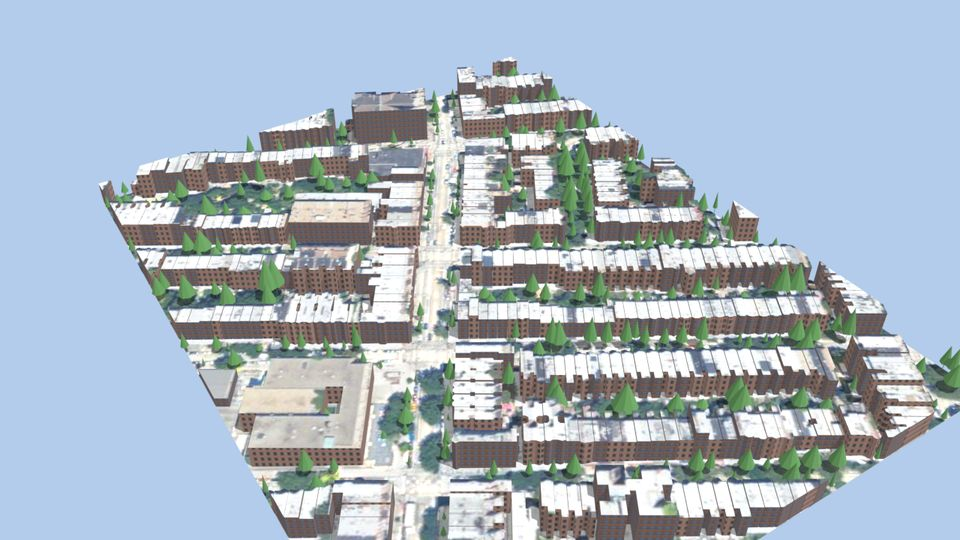
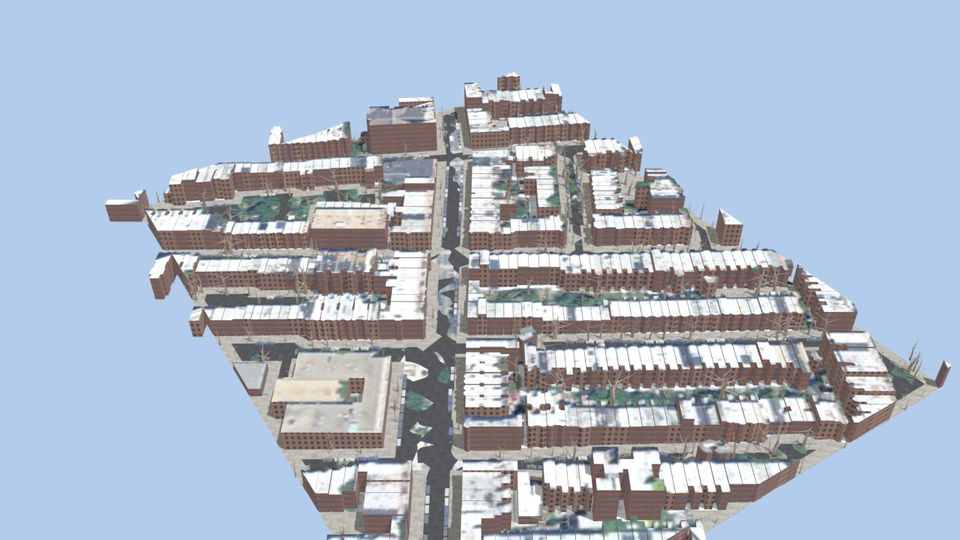
Places: Park Slope latest run (street layer built, photo judge tier 2) with a street-level shot (#98)
Claude-Session: https://claude.ai/code/session_01CMmGU8gXLNTPgnh3yM6MVc

diff --git a/docs/index.html b/docs/index.html
@@ -231,7 +231,7 @@
       <p class="note">Without clipping heights to footprints, none of 20 complete. Runs took 15 to 32 minutes and $3.62 to $10.53 of model compute (not a price). Seattle’s LiDAR was missing from our usual catalogue; the agents found the USGS dataset themselves. Austin’s houses are measured but only 16% of places LiDAR puts above 3 m have anything built (the trees), and its ground has no roads. Park Slope’s 18 was a lucky draw: over 60 routes it is 78%. Red Hook built 6 structures (target 100), no cranes, ships or containers. Three other San Francisco sites and New York’s Financial District were not built in earlier runs and haven’t been re-run.</p>
       <p class="note">Sources: NAIP aerial imagery and USGS 3DEP LiDAR (public domain), Overture Maps building footprints (ODbL).</p>
     </div>
-    <figure class="pair"><div><img src="img/parkslope-source.jpg" width="508" height="662" loading="lazy" alt="Aerial photo of Park Slope, Brooklyn: rows of rowhouses with tree-lined streets"><img src="img/parkslope-built.jpg" width="960" height="540" loading="lazy" alt="Raw 3D render of the same Park Slope blocks: brick rowhouses at measured heights under aerial-photo roofs, with green cone trees"></div><figcaption>Park Slope, Brooklyn: the aerial photo the run started from (left) and the world it shipped (right), unretouched. Heights are LiDAR; trees are flat cones, roofs are washed out, and the file isn’t posted yet. From street level, a model judge comparing 15 Mapillary photos with renders from the same spots found the same buildings in 2 (generic brick blocks for brownstones) and no kerbs, sidewalks or parked cars. It rates the street a greybox to blockout (1–2 of 5); the judge is uncalibrated.</figcaption></figure>
+    <figure class="pair"><div><img src="img/parkslope-source.jpg" width="508" height="662" loading="lazy" alt="Aerial photo of Park Slope, Brooklyn: rows of rowhouses with tree-lined streets"><img src="img/parkslope-built.jpg" width="960" height="540" loading="lazy" alt="Raw 3D render of the same Park Slope blocks: brick rowhouses at measured heights under aerial-photo roofs, with bare branching trees along the streets"><img src="img/parkslope-street.jpg" width="640" height="360" loading="lazy" style="grid-column:1/-1;max-width:640px" alt="Raw street-level render in Park Slope: brick blocks, lamp posts, bare trees and a row of parked cars drawn as grey boxes"></div><figcaption>Park Slope, Brooklyn: the aerial photo the run started from (left), the world our latest run shipped (right) and its street level (below), unretouched. Heights are LiDAR; this run built kerbed sidewalks, lamps, parked cars (grey boxes) and bare branching trees, which the run before it lacked. A model judge comparing 15 Mapillary photos with renders from the same spots found the same buildings in only 2 (generic brick blocks for brownstones), and rates the street a layout blockout (2 of 5, up from 1); the judge is uncalibrated, and the file isn’t posted yet.</figcaption></figure>
     <figure class="pair"><div><img src="img/redhook-source.jpg" width="299" height="393" loading="lazy" alt="Aerial photo of Red Hook, Brooklyn: a pier with ships moored along a warehouse, container yard at top right"><img src="img/redhook-built.jpg" width="960" height="540" loading="lazy" alt="Raw 3D render of the same Red Hook basin: flat blue water, the warehouse as a measured-height block, ships and containers present only as photo on the ground"></div><figcaption>Red Hook, Brooklyn, the miss: the aerial the run started from (left) and what shipped (right), unretouched. Water is segmented and the warehouse has LiDAR height; the ships, containers and cranes are only pixels in the ground photo, and the file isn’t posted yet.</figcaption></figure>
   </section>
 
